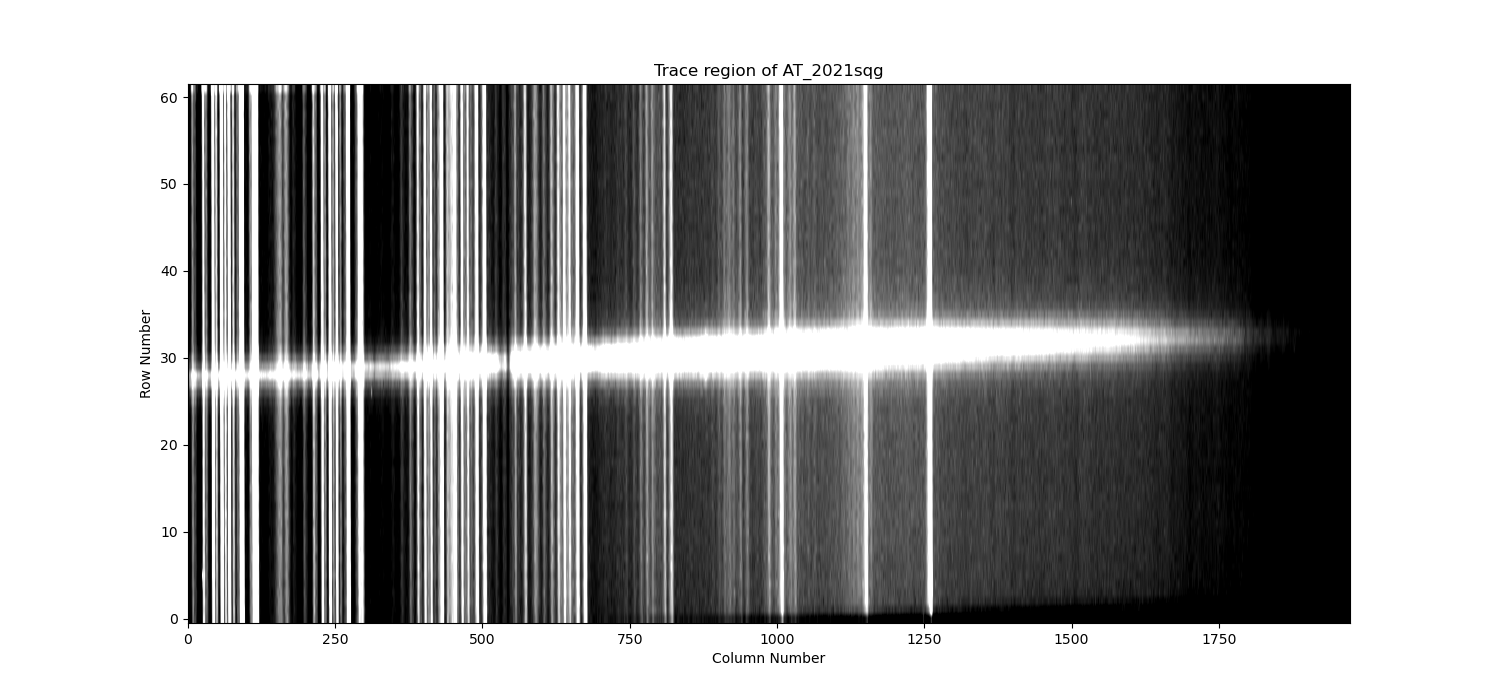
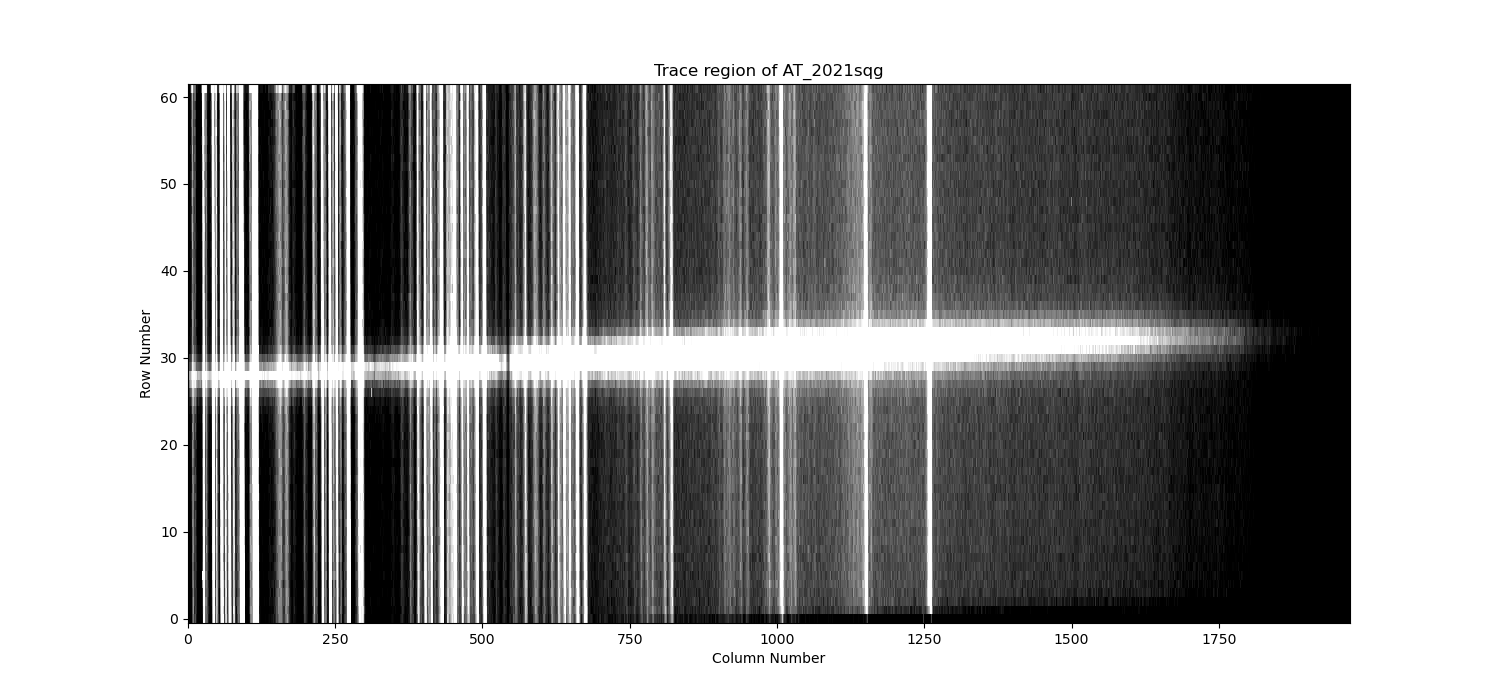
Added interpolation =nearest for show_image

diff --git a/spectroscopic_routines.py b/spectroscopic_routines.py
@@ -42,7 +42,7 @@ def show_image(image, lower=-1, upper=3, extent=None):
     vmin = sample.mean() + lower * sample.std()
     vmax = sample.mean() + upper * sample.std()
     plt.figure(figsize=(15, 7))
-    plt.imshow(image, origin='lower', cmap='gray', aspect='auto', vmin=vmin, vmax=vmax, extent=extent)
+    plt.imshow(image, origin='lower', cmap='gray', aspect='auto', vmin=vmin, vmax=vmax, extent=extent,interpolation='nearest')
     plt.xlabel('Column Number')
     plt.ylabel('Row Number')
 
